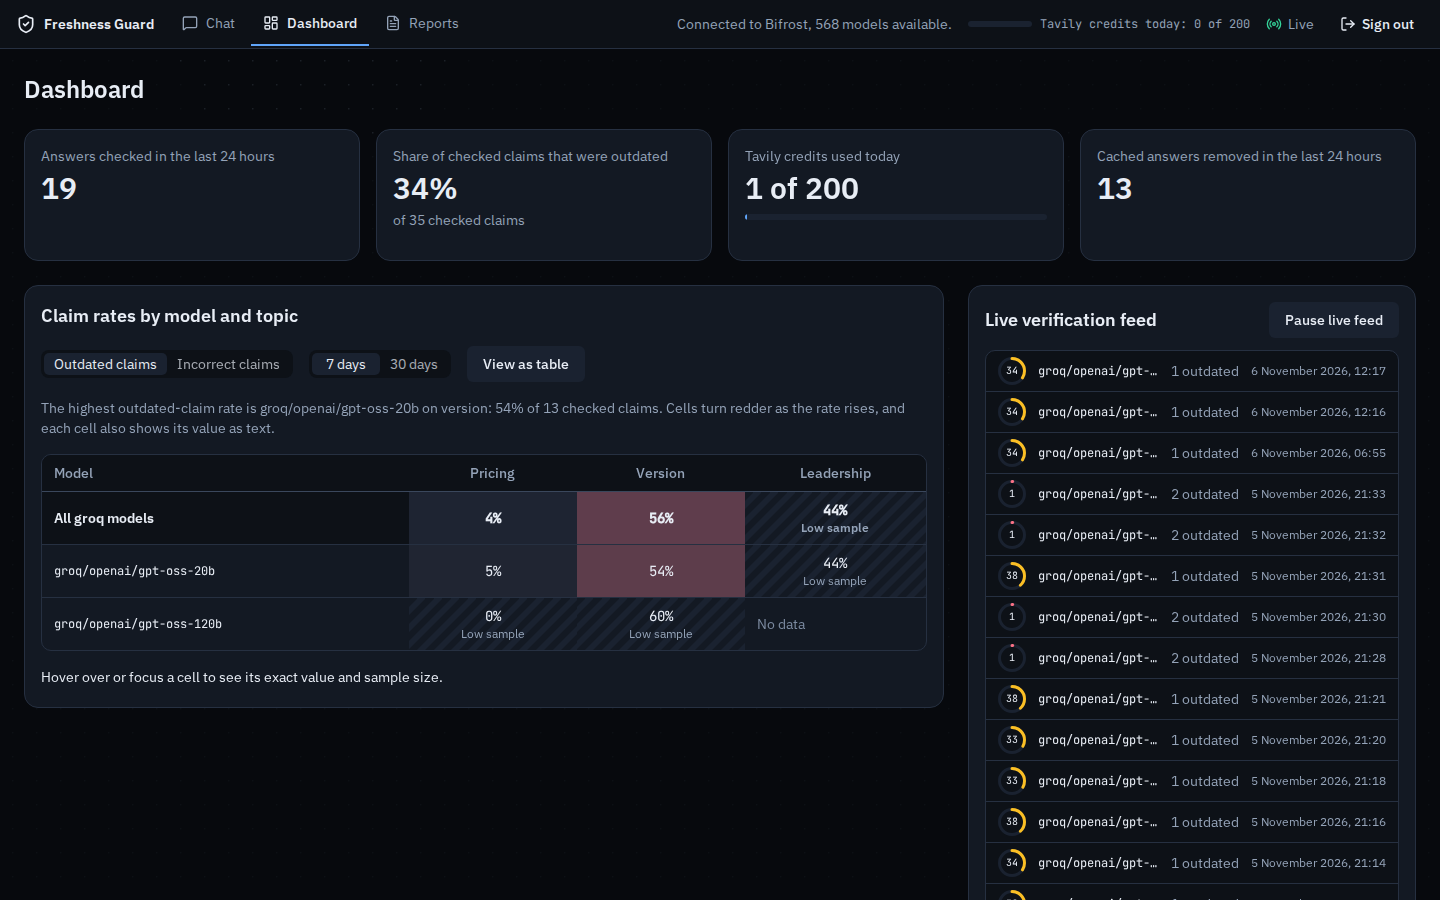
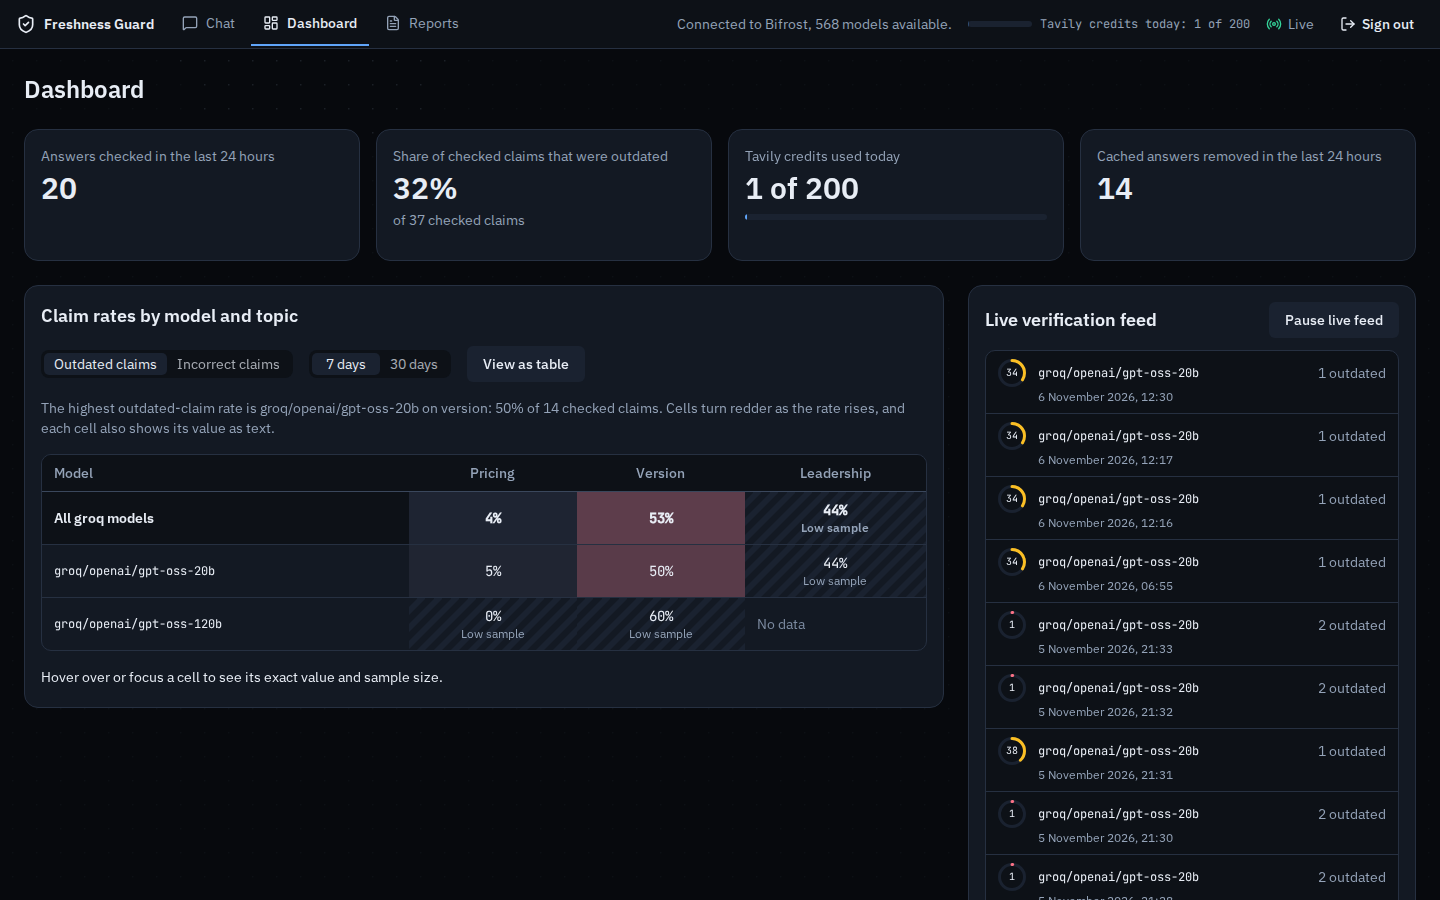
fix: keep feed model names readable, show the focused heatmap cell, and describe the credit meter fully

diff --git a/web/src/dashboard/dashboard.test.tsx b/web/src/dashboard/dashboard.test.tsx
@@ -118,6 +118,20 @@ describe('DashboardPage summary row', () => {
     expect(meter).toHaveAttribute('aria-valuenow', '4')
     expect(meter).toHaveAttribute('aria-valuemin', '0')
     expect(meter).toHaveAttribute('aria-valuemax', '200')
+    expect(meter).toHaveAttribute('aria-valuetext', '4 of 200')
+  })
+
+  it('caps the meter and says so when the credit budget is used up', async () => {
+    ;({ fake } = setup({ 'GET /freshness/summary': () => json(200, { ...summary, credits: { used: 35, budget: 30 } }) }))
+    const meter = await screen.findByRole('meter', { name: 'Tavily credits used today' })
+    expect(meter).toHaveAttribute('aria-valuenow', '30')
+    expect(meter).toHaveAttribute('aria-valuetext', '35 of 30')
+    expect((meter.firstElementChild as HTMLElement).style.width).toBe('100%')
+    expect(
+      screen.getByText(
+        'The daily Tavily credit budget has been reached. New claims will be checked again tomorrow, or you can raise the budget in the plugin settings.',
+      ),
+    ).toBeInTheDocument()
   })
 
   it('shows an empty meter when the budget is 0', async () => {
@@ -125,6 +139,8 @@ describe('DashboardPage summary row', () => {
     const meter = await screen.findByRole('meter', { name: 'Tavily credits used today' })
     expect(meter).toHaveAttribute('aria-valuemax', '0')
     expect((meter.firstElementChild as HTMLElement).style.width).toBe('0%')
+    // With no budget no claim can be checked, so the card says why.
+    expect(screen.getByText(/^The daily Tavily credit budget has been reached\./)).toBeInTheDocument()
   })
 
   it('says when the cache purge is switched off', async () => {
@@ -179,6 +195,13 @@ describe('DashboardPage heatmap', () => {
     const cell = await screen.findByLabelText(pricingSentence)
     expect(cell.style.backgroundColor).toContain('in oklab')
     expect(cell.style.backgroundColor).not.toContain('in oklch')
+  })
+
+  it('rings the focused cell in the primary text colour, which stays visible on a high-rate cell', async () => {
+    ;({ fake } = setup())
+    const cell = await screen.findByLabelText(pricingSentence)
+    expect(cell.className).toContain('data-[active=true]:ring-[var(--text)]')
+    expect(cell.className).not.toContain('ring-[var(--accent)]')
   })
 
   it('hatches low-sample cells', async () => {
@@ -284,6 +307,16 @@ describe('DashboardPage live feed', () => {
     const [link] = await within(await screen.findByRole('list', { name: 'Recent reports' })).findAllByRole('link')
     expect(link).toHaveTextContent('1 outdated')
     expect(link.querySelector('time')).toHaveAttribute('dateTime', completeReport().created_at)
+  })
+
+  it('lays out each row by the width of the feed, not of the window', async () => {
+    ;({ fake } = setup({ 'GET /freshness/reports': () => json(200, { reports: reports('r1') }) }))
+    const list = await screen.findByRole('list', { name: 'Recent reports' })
+    // The feed is a narrow column on wide screens, so the window width says nothing about the room a row has.
+    expect(list.closest('section')).toHaveClass('@container')
+    const [link] = await within(list).findAllByRole('link')
+    expect(link).toHaveClass('@lg:flex-nowrap')
+    expect(link).not.toHaveClass('sm:flex-nowrap')
   })
 
   it('shows the status when a report is not complete', async () => {

diff --git a/web/src/dashboard/SummaryRow.tsx b/web/src/dashboard/SummaryRow.tsx
@@ -1,5 +1,5 @@
 import { useQuery } from '@tanstack/react-query'
-import type { ReactNode } from 'react'
+import { useId, type ReactNode } from 'react'
 import { getSummary, type ApiError } from '@/api/client'
 import type { Summary } from '@/api/types'
 import { percent } from '@/claims/format'
@@ -7,17 +7,22 @@ import { statsKey } from '@/live/keys'
 import { SpotlightCard } from '@/motion/SpotlightCard'
 import { Button } from '@/components/ui/button'
 
+const BUDGET_REACHED =
+  'The daily Tavily credit budget has been reached. New claims will be checked again tomorrow, or you can raise the budget in the plugin settings.'
+
 // Meter shows use against a budget. It turns amber at 90%, where the budget
 // is about to stop new checks.
-function Meter({ label, used, budget }: { label: string; used: number; budget: number }) {
+function Meter({ labelledBy, used, budget }: { labelledBy: string; used: number; budget: number }) {
   const share = budget > 0 ? Math.min(used / budget, 1) : 0
   return (
+    // aria-valuenow may not exceed aria-valuemax, so it is capped; the text gives the real numbers.
     <div
       role="meter"
-      aria-label={label}
+      aria-labelledby={labelledBy}
       aria-valuemin={0}
       aria-valuemax={budget}
-      aria-valuenow={used}
+      aria-valuenow={Math.min(used, budget)}
+      aria-valuetext={`${used} of ${budget}`}
       className="mt-2 h-1.5 overflow-hidden rounded-full bg-surface-3"
     >
       <div
@@ -39,11 +44,14 @@ function Stat({
   detail?: string
   meter?: { used: number; budget: number }
 }) {
+  const labelId = useId()
   return (
     <SpotlightCard>
-      <p className="text-sm text-text-muted">{label}</p>
+      <p id={labelId} className="text-sm text-text-muted">
+        {label}
+      </p>
       <p className="mt-1 text-3xl font-semibold tabular-nums">{value}</p>
-      {meter && <Meter label={label} used={meter.used} budget={meter.budget} />}
+      {meter && <Meter labelledBy={labelId} used={meter.used} budget={meter.budget} />}
       <p className="mt-1 min-h-5 text-sm text-text-muted">{detail}</p>
     </SpotlightCard>
   )
@@ -83,7 +91,13 @@ export function SummaryRow() {
         value={s.checked_claims === 0 ? 'None' : percent(s.outdated_claims / s.checked_claims)}
         detail={s.checked_claims === 0 ? 'No claims have been checked yet.' : `of ${s.checked_claims} checked claims`}
       />
-      <Stat label="Tavily credits used today" value={`${s.credits.used} of ${s.credits.budget}`} meter={s.credits} />
+      <Stat
+        label="Tavily credits used today"
+        value={`${s.credits.used} of ${s.credits.budget}`}
+        meter={s.credits}
+        // DESIGN.md section 8. A budget of 0 counts as used up: no claim can be checked.
+        detail={s.credits.used >= s.credits.budget ? BUDGET_REACHED : undefined}
+      />
       <Stat
         label="Cached answers removed in the last 24 hours"
         value={s.cache_purge_enabled ? s.cache_purges : 'Off'}

diff --git a/web/src/dashboard/LiveFeed.tsx b/web/src/dashboard/LiveFeed.tsx
@@ -28,7 +28,7 @@ export function LiveFeed() {
   const waiting = frozen ? latest.filter((r) => !frozen.some((f) => f.id === r.id)).length : 0
 
   return (
-    <section aria-labelledby="live-feed-title" className="flex h-full flex-col gap-3 rounded-xl border border-border bg-surface-2 p-4">
+    <section aria-labelledby="live-feed-title" className="@container flex h-full flex-col gap-3 rounded-xl border border-border bg-surface-2 p-4">
       <div className="flex items-center justify-between gap-3">
         <h2 id="live-feed-title" className="text-lg font-semibold">
           Live verification feed
@@ -58,7 +58,7 @@ export function LiveFeed() {
               animate={reduced ? { opacity: 1 } : { opacity: 1, y: 0 }}
               transition={{ duration: reduced ? 0.08 : 0.22 }}
             >
-              <Link to={`/reports/${r.id}`} className="flex flex-wrap items-center gap-x-3 gap-y-0.5 px-3 py-2 text-sm hover:bg-surface-3 sm:h-10 sm:flex-nowrap sm:py-0">
+              <Link to={`/reports/${r.id}`} className="flex flex-wrap items-center gap-x-3 gap-y-0.5 px-3 py-2 text-sm hover:bg-surface-3 @lg:h-10 @lg:flex-nowrap @lg:py-0">
                 <ScoreRing score={r.score} size="sm" />
                 <span className="min-w-0 flex-1 truncate font-mono text-xs" title={r.model || undefined}>
                   {r.model || 'Pasted text'}
@@ -66,7 +66,7 @@ export function LiveFeed() {
                 <span className="shrink-0 text-text-muted">
                   {r.status === 'complete' ? `${r.stale_count} outdated` : statusLabel[r.status]}
                 </span>
-                <time dateTime={r.created_at} className="w-full shrink-0 pl-10 text-xs text-text-muted tabular-nums sm:w-auto sm:pl-0">
+                <time dateTime={r.created_at} className="w-full shrink-0 pl-10 text-xs text-text-muted tabular-nums @lg:w-auto @lg:pl-0">
                   {formatDateTime(r.created_at)}
                 </time>
               </Link>

diff --git a/web/src/dashboard/StalenessHeatmap.tsx b/web/src/dashboard/StalenessHeatmap.tsx
@@ -78,7 +78,7 @@ function HeatmapGrid({ lb, metric, categories, active, onActive, describedBy }: 
                 }
               : { backgroundColor: `color-mix(in oklab, ${color} ${Math.round(rate(counts, metric) * MAX_MIX)}%, var(--surface-3))` }
           }
-          className="px-3 py-2 text-center font-mono tabular-nums data-[active=true]:ring-2 data-[active=true]:ring-[var(--accent)] data-[active=true]:ring-inset data-[crosshair=true]:brightness-125"
+          className="px-3 py-2 text-center font-mono tabular-nums data-[active=true]:ring-2 data-[active=true]:ring-[var(--text)] data-[active=true]:ring-inset data-[crosshair=true]:brightness-125"
           onPointerEnter={() => onActive({ rowKey, category, sentence })}
           onPointerLeave={() => onActive(null)}
           onFocus={() => onActive({ rowKey, category, sentence })}
